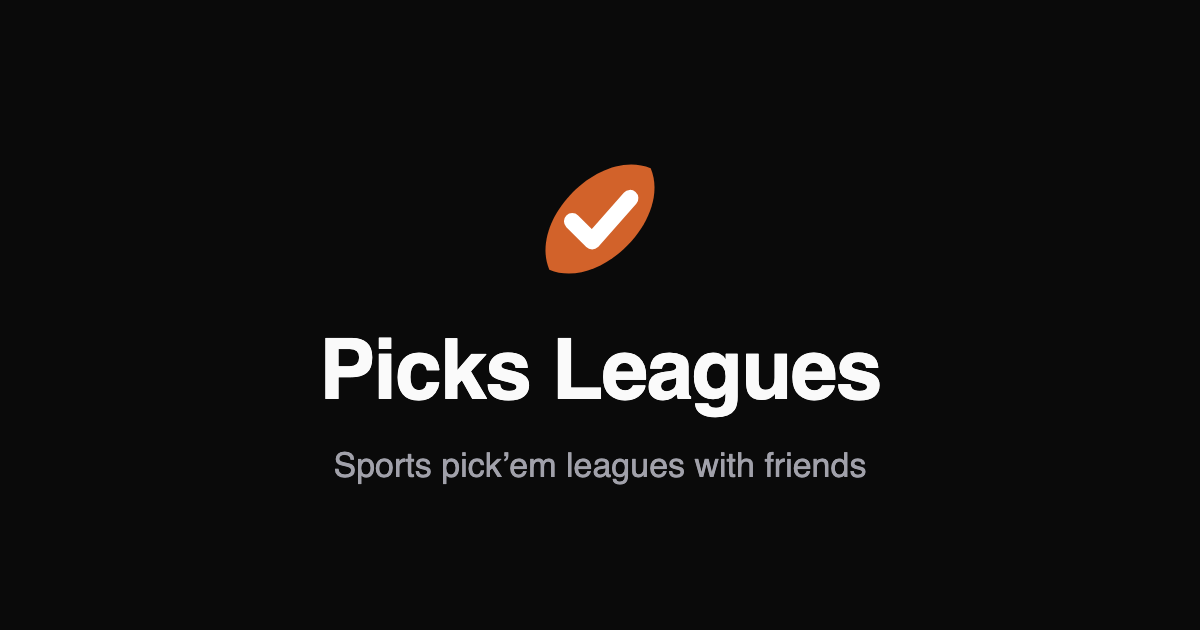
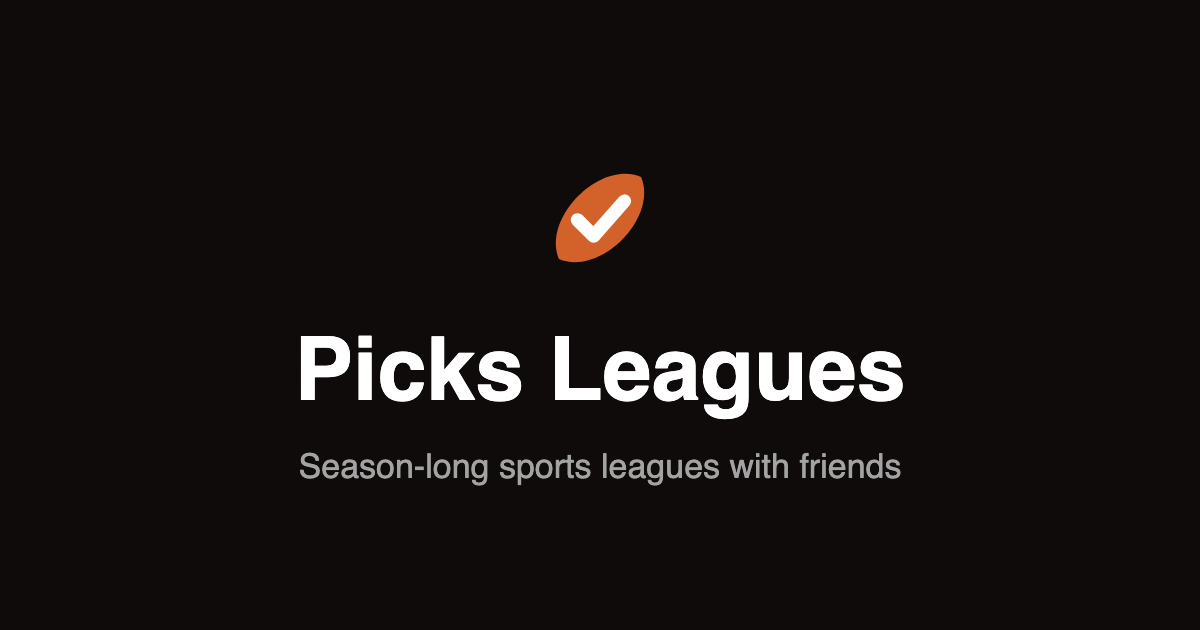
chore(web): social-preview tagline names the category, not one mode
og.png still read "Sports pick'em leagues with friends" after FB-33 fixed the
text copy — it was a one-off asset with no generator. The card now renders
from render-pwa-icons.mjs alongside the icons, so the tagline lives in code
next to the mark, and the /welcome and /terms prerender copy says the same
thing.

Changed region(s): [[0.2467, 0.5127, 0.7708, 0.6635], [0.2467, 0.7238, 0.7708, 0.7841], [0.4317, 0.2413, 0.555, 0.4524]]

diff --git a/apps/web/prerender/routes.ts b/apps/web/prerender/routes.ts
@@ -21,9 +21,9 @@ export interface PrerenderRoute {
 export const PRERENDER_ROUTES: readonly PrerenderRoute[] = [
   {
     path: "/welcome",
-    title: "Picks Leagues — NFL pick'em and survivor leagues with friends",
+    title: "Picks Leagues — Season-long sports leagues with friends",
     description:
-      "Picks Leagues is a free web app for running season-long NFL pick'em and survivor leagues with friends. Create a league, invite your crew with a link, make weekly picks, and follow the standings all season.",
+      "Picks Leagues is a free web app for running season-long sports leagues with friends — NFL pick'em and survivor today, March Madness brackets to come. Create a league, invite your crew with a link, make weekly picks, and follow the standings all season.",
   },
   {
     path: "/rules/pickem",
@@ -52,6 +52,7 @@ export const PRERENDER_ROUTES: readonly PrerenderRoute[] = [
   {
     path: "/terms",
     title: "Terms of Service · Picks Leagues",
-    description: "The terms for using Picks Leagues, a free web app for sports pick'em leagues.",
+    description:
+      "The terms for using Picks Leagues, a free web app for season-long sports leagues with friends.",
   },
 ] as const;
